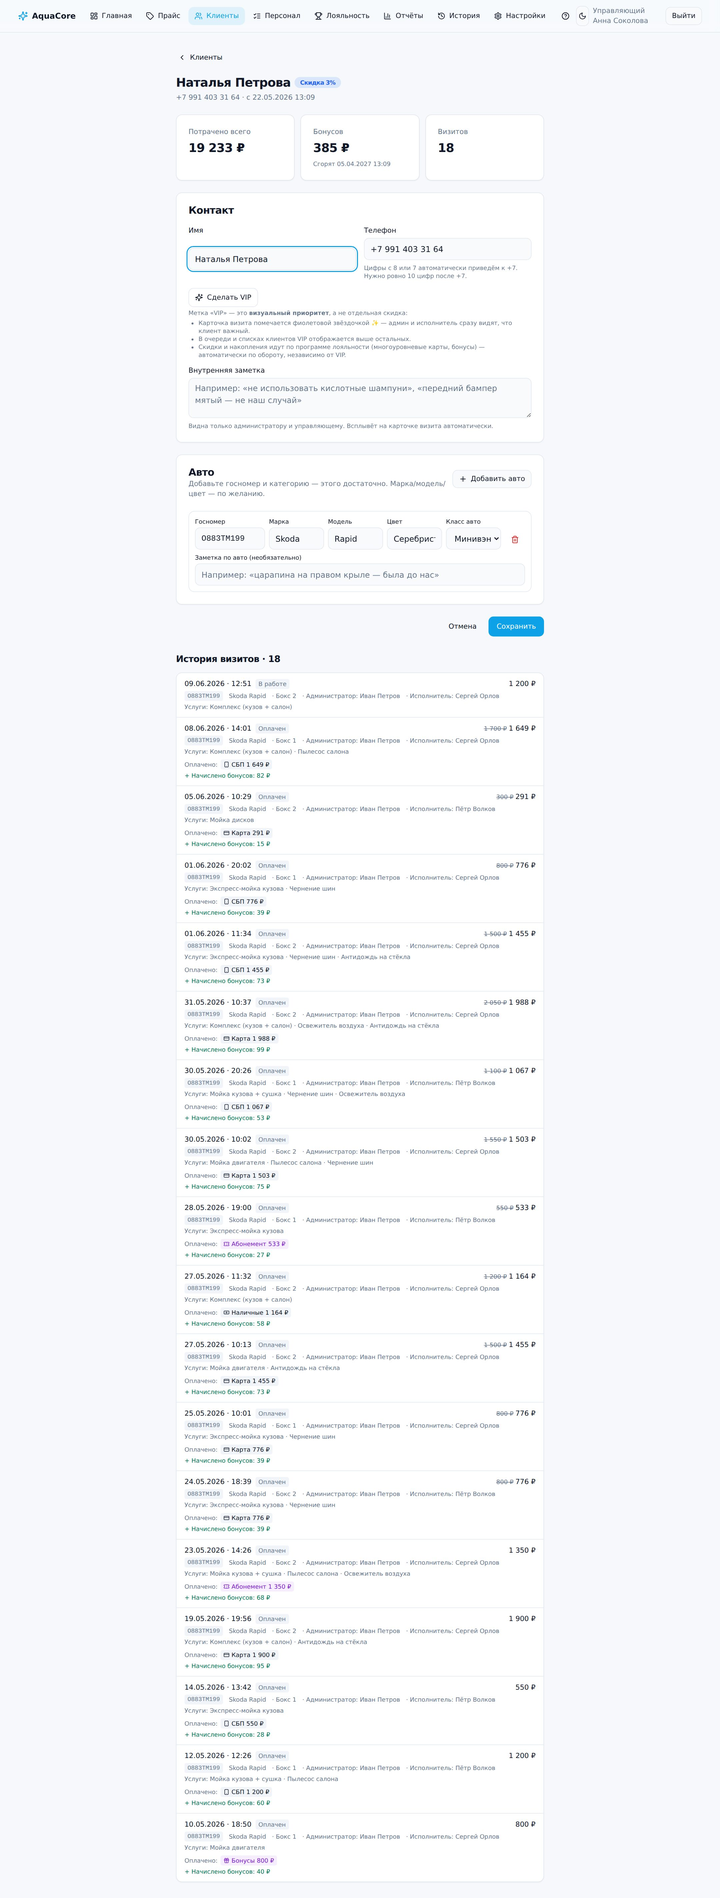
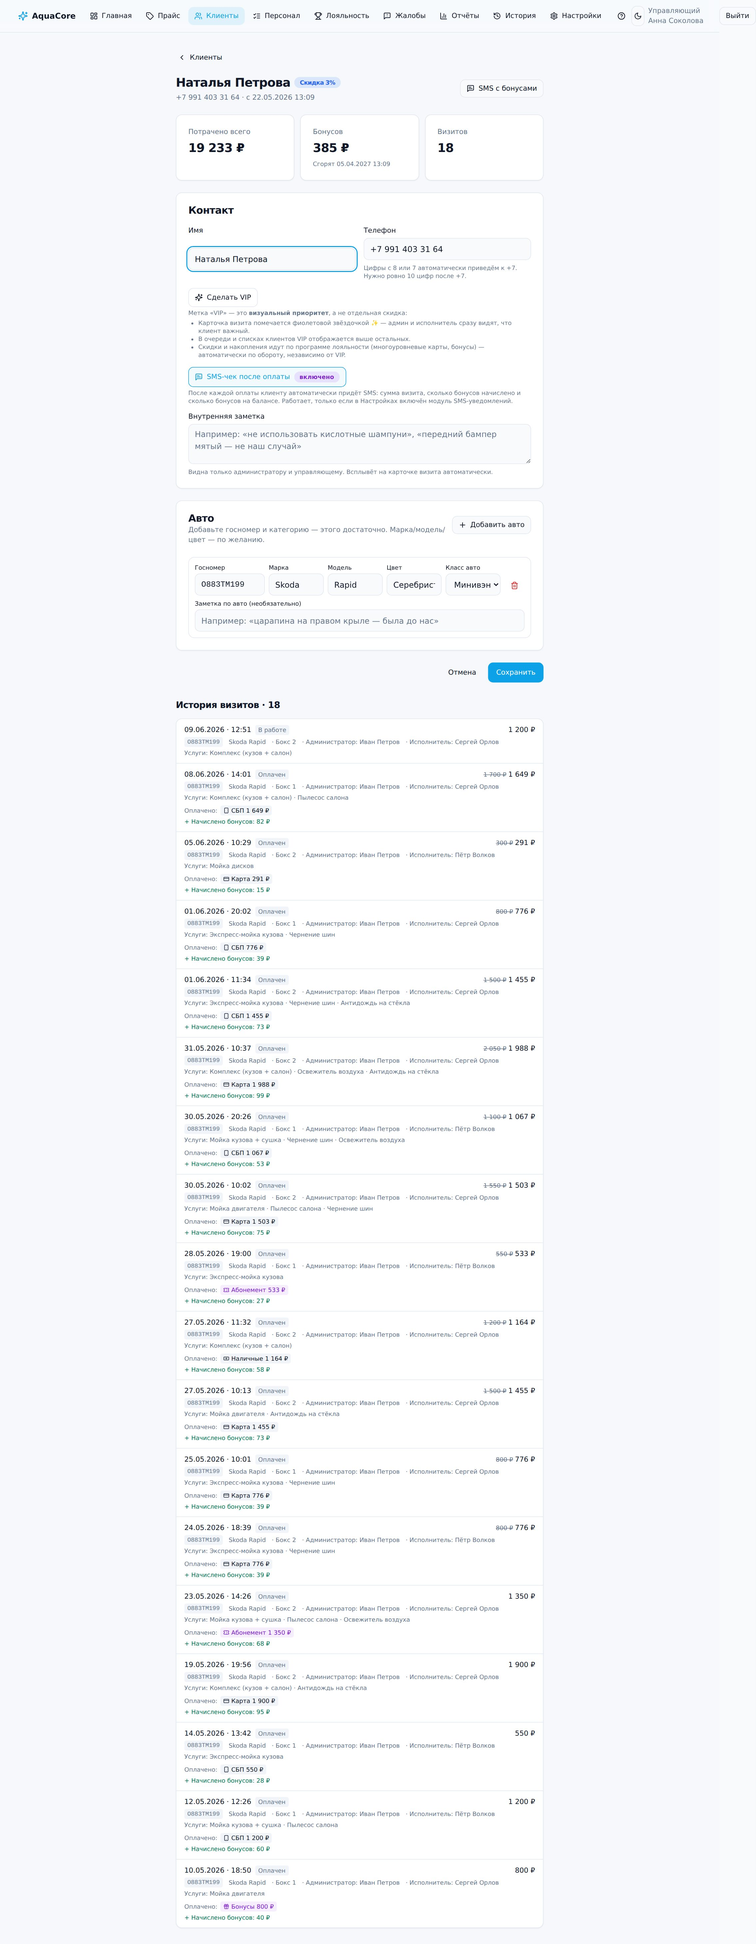
Новые функции продукта на сайте: качество сервиса, шиномонтаж в прайсе, надёжность
- Новые реальные скрины: «Жалобы клиентов» (Новая → В работе → Решена) и
  «Оценки исполнителей» (средний балл + отзывы). Обновлены прайс (теперь с
  разделом «Шиномонтаж»: переобувка, балансировка, ремонт проколов, хранение)
  и карточка клиента (кнопка «SMS с бонусами»).
- Новая секция «Качество сервиса» на главной: оценки, рейтинг исполнителей,
  жалобы с решением, SMS-чек с бонусами.
- Секция «Контроль» расширена до «Контроль и надёжность»: атомарные оплаты
  (деньги не задвоятся), ежедневные бэкапы и автотесты на каждое обновление.
- «Возможности»: группа «Качество и репутация», шиномонтаж в прайсе,
  SMS-чек по галочке. FAQ: «Как контролировать качество обслуживания?»
- Подвал: домашний адрес ИП убран с каждой страницы (наименование + ИНН +
  ОГРНИП + ссылка «полные реквизиты»); полный адрес остаётся в Политике
  и Оферте — этого достаточно по закону.
- SEO: описание дополнено контролем качества; FAQ-разметка выросла до 13
  вопросов.

diff --git a/src/app/page.tsx b/src/app/page.tsx
@@ -27,6 +27,7 @@ export default function HomePage() {
         <KeyFeatures />
         <Anpr />
         <Loyalty />
+        <Quality />
         <Benefits />
         <Roi />
         <Analytics />
@@ -532,6 +533,41 @@ function Roles() {
   );
 }
 
+/* ─────────────────────────── QUALITY ──────────────────────────── */
+function Quality() {
+  const items = [
+    { icon: "star" as const, t: "Оценки после визита", d: "Клиент ставит оценку и пишет отзыв в своём кабинете — обратная связь приходит сама." },
+    { icon: "users" as const, t: "Рейтинг исполнителей", d: "Средний балл и отзывы по каждому сотруднику. Видно, кто моет лучше всех — и кого подтянуть." },
+    { icon: "doc" as const, t: "Жалобы с решением", d: "«Новая → В работе → Решена», заметка решения обязательна и видна клиенту. Ни одна жалоба не потеряется." },
+    { icon: "bell" as const, t: "SMS-чек с бонусами", d: "После оплаты клиент получает SMS: сумма, начисленные бонусы и баланс. Лояльность работает сама." },
+  ];
+  return (
+    <section id="kachestvo" className="section bg-slate-50">
+      <div className="container-x">
+        <SectionHeading
+          eyebrow="Качество сервиса"
+          title="Недовольный клиент уходит молча. Здесь — нет"
+          text="Оценки, отзывы, жалобы и рейтинг исполнителей — вы узнаёте о проблеме первым и возвращаете клиента, пока он не ушёл к конкуренту."
+        />
+        <div className="mt-12 grid gap-5 sm:grid-cols-2 lg:grid-cols-4">
+          {items.map((it, i) => {
+            const Icon = Icons[it.icon];
+            return (
+              <FeatureCard
+                key={it.t}
+                index={i}
+                icon={<Icon className="h-6 w-6" />}
+                title={it.t}
+                text={it.d}
+              />
+            );
+          })}
+        </div>
+      </div>
+    </section>
+  );
+}
+
 /* ─────────────────────────── SECURITY ─────────────────────────── */
 function Security() {
   const items = [
@@ -539,16 +575,18 @@ function Security() {
     { icon: "bolt" as const, t: "Детектор злоупотреблений", d: "15+ признаков: крупные скидки, расхождения по кассе, возвраты, оплаты без исполнителя." },
     { icon: "cash" as const, t: "Сверка кассы", d: "Система знает ожидаемый остаток. Любое расхождение — на виду, с комментарием." },
     { icon: "lock" as const, t: "Защита данных", d: "«Мягкое» удаление с восстановлением 30 дней и изоляция данных каждой мойки." },
+    { icon: "check" as const, t: "Деньги не задвоятся", d: "Оплаты и возвраты — атомарные операции: двойное нажатие «Оплатить» не создаст второй платёж." },
+    { icon: "refresh" as const, t: "Бэкапы и автотесты", d: "Ежедневные резервные копии базы и десятки автотестов на каждое обновление системы." },
   ];
   return (
     <section className="section">
       <div className="container-x">
         <SectionHeading
-          eyebrow="Контроль"
+          eyebrow="Контроль и надёжность"
           title="Прозрачность, которая защищает вашу прибыль"
-          text="AquaCore не просто учитывает — он помогает находить и устранять потери."
+          text="AquaCore не просто учитывает — он помогает находить и устранять потери. А деньги и данные защищены на уровне банковских систем."
         />
-        <div className="mt-12 grid gap-5 sm:grid-cols-2 lg:grid-cols-4">
+        <div className="mt-12 grid gap-5 sm:grid-cols-2 lg:grid-cols-3">
           {items.map((it, i) => {
             const Icon = Icons[it.icon];
             return (
@@ -570,8 +608,8 @@ function Security() {
 /* ───────────────────────── INTEGRATIONS ───────────────────────── */
 function Integrations() {
   const items = [
-    { icon: "bell" as const, t: "SMS клиентам", d: "«Машина готова» и чек после оплаты — через SMS Aero или SMS.ru." },
-    { icon: "telegram" as const, t: "Telegram руководителю", d: "Алерты о низких оценках и расхождениях по кассе прямо в мессенджер." },
+    { icon: "bell" as const, t: "SMS клиентам", d: "«Машина готова» и SMS-чек с бонусами после оплаты — через SMS Aero или SMS.ru." },
+    { icon: "telegram" as const, t: "Telegram руководителю", d: "Алерты о жалобах, низких оценках и расхождениях по кассе прямо в мессенджер." },
     { icon: "scan" as const, t: "Распознавание номеров", d: "Своё решение распознавания без привязки к одному поставщику." },
     { icon: "mail" as const, t: "Email", d: "Подтверждение почты и восстановление доступа для сотрудников." },
   ];

diff --git a/src/app/vozmozhnosti/page.tsx b/src/app/vozmozhnosti/page.tsx
@@ -71,8 +71,19 @@ const groups: Group[] = [
     items: [
       { t: "Свои классы авто", d: "Управляющий сам создаёт, переименовывает, сортирует и удаляет классы под свой прайс — без жёстких рамок." },
       { t: "Цена под каждый класс", d: "Для каждой услуги — отдельная цена по классам автомобилей." },
+      { t: "Раздел «Шиномонтаж»", d: "Отдельная категория услуг: переобувка, балансировка, ремонт проколов, хранение шин." },
       { t: "Массовая правка цен", d: "Изменение всех цен на заданный процент в один клик." },
       { t: "Чек-листы качества", d: "Этапы выполнения по каждой услуге — ничего не забыто." },
+    ],
+  },
+  {
+    icon: "star",
+    title: "Качество и репутация",
+    items: [
+      { t: "Оценки после визита", d: "Клиент ставит оценку и пишет комментарий в своём кабинете." },
+      { t: "Рейтинг исполнителей", d: "Средний балл и количество оценок по каждому сотруднику + последние отзывы." },
+      { t: "Жалобы с обработкой", d: "«Новая → В работе → Решена»: заметка решения обязательна и видна клиенту." },
+      { t: "Алерты руководителю", d: "Telegram-уведомления о новых жалобах и низких оценках — реагируете сразу." },
     ],
   },
   {
@@ -131,8 +142,9 @@ const groups: Group[] = [
     icon: "bell",
     title: "Уведомления и интеграции",
     items: [
-      { t: "SMS клиенту", d: "«Машина готова» и чек после оплаты (SMS Aero / SMS.ru)." },
-      { t: "Telegram руководителю", d: "Алерты о низких оценках и расхождениях по кассе." },
+      { t: "SMS клиенту", d: "«Машина готова» и SMS-чек после оплаты: сумма, начисленные бонусы и баланс (SMS Aero / SMS.ru)." },
+      { t: "SMS-чек по галочке", d: "Включается персонально в карточке клиента; админ может отправить SMS с балансом бонусов вручную." },
+      { t: "Telegram руководителю", d: "Алерты о жалобах, низких оценках и расхождениях по кассе." },
       { t: "Email", d: "Подтверждение почты и восстановление доступа сотрудников." },
     ],
   },

diff --git a/src/config/content.ts b/src/config/content.ts
@@ -74,9 +74,14 @@ export const keyFeatures: Feature[] = [
     text: "Неизменяемый журнал всех действий и более 15 признаков подозрительной активности: крупные скидки, расхождения по кассе, возвраты, оплаты без исполнителя.",
   },
   {
+    icon: "star",
+    title: "Качество под контролем",
+    text: "Клиенты ставят оценки после визита, жалобы попадают к управляющему и решаются по шагам «Новая → В работе → Решена». Рейтинг по каждому исполнителю — видно, кто работает лучше.",
+  },
+  {
     icon: "bell",
     title: "SMS и Telegram",
-    text: "Клиенту — SMS «машина готова» и чек после оплаты. Руководителю — Telegram-алерты о низких оценках и расхождениях по кассе.",
+    text: "Клиенту — SMS «машина готова» и SMS-чек с суммой и бонусами после оплаты. Руководителю — Telegram-алерты о жалобах, низких оценках и расхождениях по кассе.",
   },
   {
     icon: "phone",
@@ -160,6 +165,10 @@ export const faq = [
   {
     q: "Можно ли переключать светлую и тёмную тему?",
     a: "Да. Интерфейс поддерживает светлую и тёмную тему — переключается одной кнопкой в шапке и может подстраиваться под настройки устройства. Тёмная тема удобна вечером и на планшете администратора прямо в боксе.",
+  },
+  {
+    q: "Как контролировать качество обслуживания?",
+    a: "В системе несколько уровней контроля: чек-листы качества по каждой услуге, оценки клиентов после визита, рейтинг по каждому исполнителю (средний балл и отзывы), жалобы с обязательной обработкой «Новая → В работе → Решена» — решение видит клиент. Управляющий получает Telegram-алерты о новых жалобах и низких оценках.",
   },
   {
     q: "Подходит ли AquaCore для шиномонтажа и автосервиса?",

diff --git a/src/config/screens.ts b/src/config/screens.ts
@@ -57,14 +57,28 @@ export const shots: Shot[] = [
   {
     file: "manager-client-card.jpg",
     title: "История клиента",
-    caption: "Карточка клиента: все визиты, авто, бонусы, уровень лояльности, заметки и оценки.",
+    caption: "Карточка клиента: все визиты, авто, бонусы, уровень лояльности — и SMS-чек с бонусами в один клик.",
+    role: "Управляющий",
+    device: "desktop",
+  },
+  {
+    file: "manager-complaints.jpg",
+    title: "Жалобы клиентов под контролем",
+    caption: "Клиент жалуется из своего кабинета, вы решаете: Новая → В работе → Решена. Решение видит клиент.",
+    role: "Управляющий",
+    device: "desktop",
+  },
+  {
+    file: "manager-ratings.jpg",
+    title: "Оценки исполнителей",
+    caption: "Средний балл и отзывы клиентов по каждому исполнителю — видно, кто моет лучше всех.",
     role: "Управляющий",
     device: "desktop",
   },
   {
     file: "manager-price-list.jpg",
-    title: "Прайс-лист по классам авто",
-    caption: "Цена под каждый класс автомобиля, массовая правка цен и чек-листы качества.",
+    title: "Прайс: мойка и шиномонтаж вместе",
+    caption: "Разделы «Мойка», «Химчистка», «Полировка» и «Шиномонтаж» в одном прайсе. Цена под каждый класс авто.",
     role: "Управляющий",
     device: "desktop",
   },

diff --git a/src/config/site.ts b/src/config/site.ts
@@ -12,7 +12,7 @@ export const site = {
   // Основной адрес сайта (для SEO/OpenGraph).
   url: "https://aqua-core.ru",
   description:
-    "AquaCore — программа для автомойки и шиномонтажа: доска заказов в реальном времени, распознавание госномеров, программа лояльности, контроль кассы, зарплата сотрудникам, аналитика и отчёты под рукой. Светлая и тёмная тема. Первые 14 дней бесплатно. Базовый тариф — 50 000 ₽ в год.",
+    "AquaCore — программа для автомойки и шиномонтажа: доска заказов в реальном времени, распознавание госномеров, лояльность, контроль кассы и качества (оценки, жалобы, рейтинг исполнителей), зарплата, аналитика. Первые 14 дней бесплатно. Базовый тариф — 50 000 ₽ в год.",
 
   // ───────────────────────── КОНТАКТЫ ─────────────────────────
   // Почта компании. Остальное (телефон/Telegram/WhatsApp) — ЗАГЛУШКИ, замените на свои.

diff --git a/src/components/Footer.tsx b/src/components/Footer.tsx
@@ -101,9 +101,11 @@ export function Footer() {
           <div className="space-y-0.5">
             <p>{site.legal.orgName}</p>
             <p>
-              ИНН {site.legal.inn} · ОГРНИП {site.legal.ogrnip}
+              ИНН {site.legal.inn} · ОГРНИП {site.legal.ogrnip} ·{" "}
+              <Link href="/oferta/" className="hover:text-brand-600 hover:underline">
+                полные реквизиты
+              </Link>
             </p>
-            <p>{site.legal.address}</p>
           </div>
           <p className="lg:text-right">
             © {year} {site.name}. Все права защищены.
